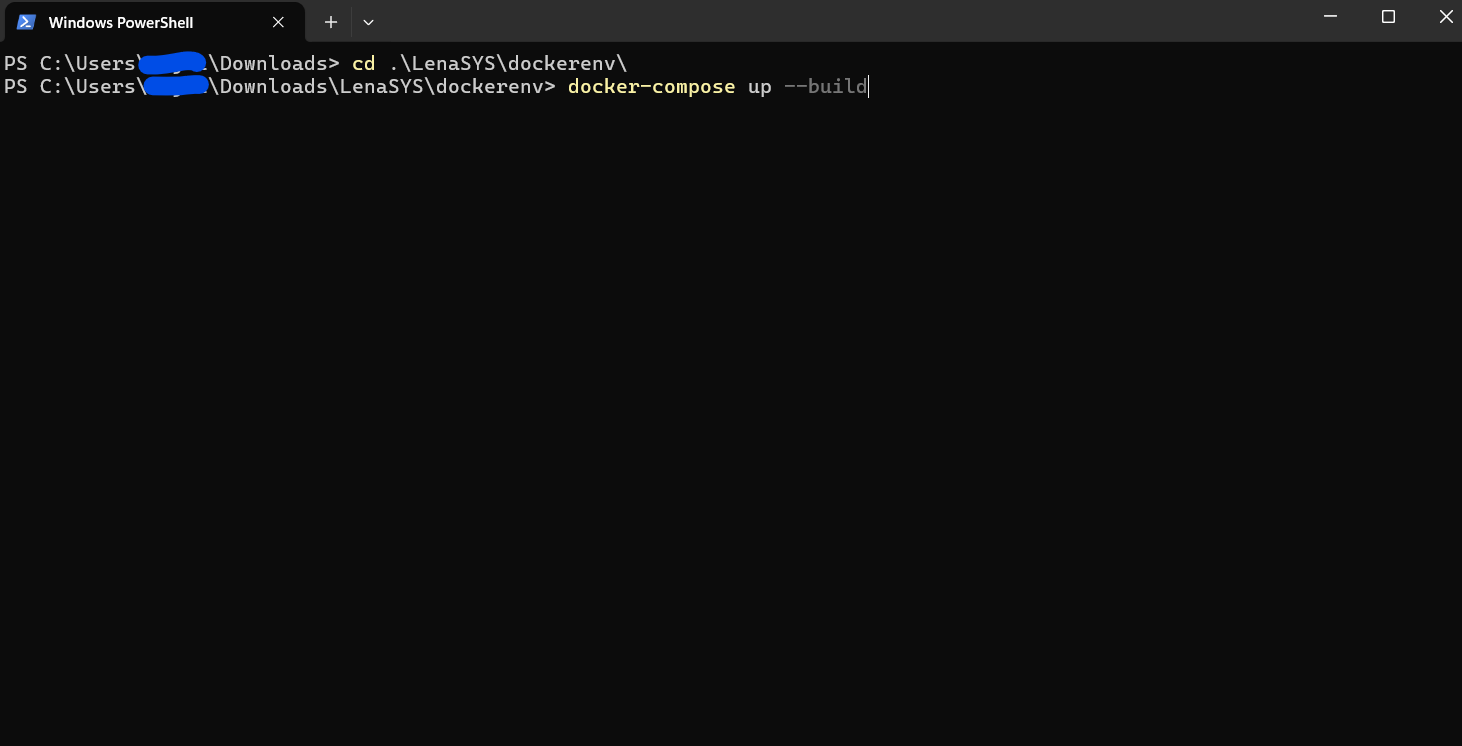
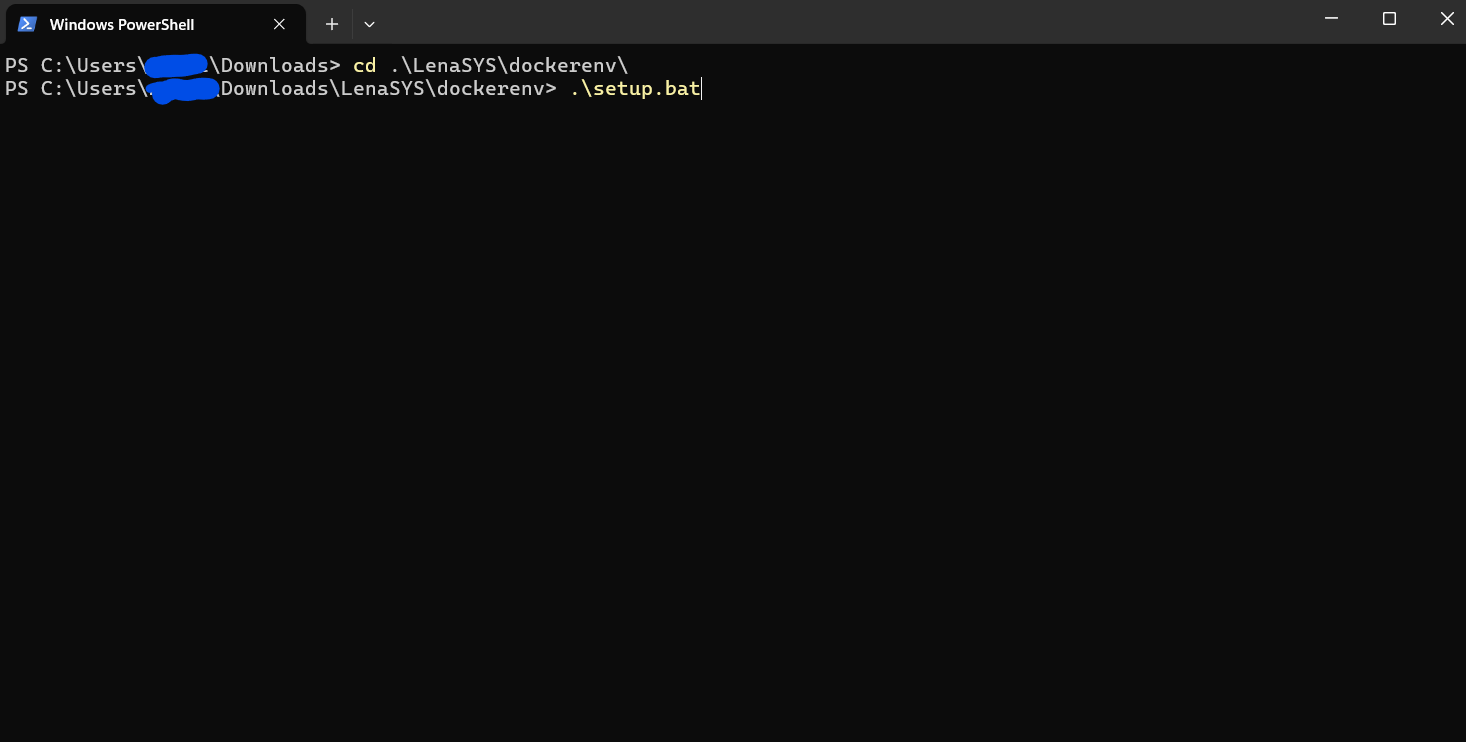
Updated image and text

diff --git a/README.md b/README.md
@@ -50,8 +50,8 @@ When you have installed your Docker desktop, you can run Docker containers, but 
 4. Now you have the LenaSYS repository, so you need to access the new directory in the terminal by typing: `cd LenaSYS/dockerenv/`.
 <img src="Shared/Documentation/docker_images/terminal3.png" width="512">
 
-5. Here you need to build a few images and containers, and to do that run the command for Windows: `docker-compose up --build`
-or macOS: `docker compose up --build`.
+5. Here you need to build a few images and containers, and to do that run the command for Windows: `.\setup.bat`
+or macOS/Linux: `./setup.sh`.
 NOTE: You need to keep open Docker desktop program/app and do not turn off, otherwise this command will show an error and will not work.
 <img src="Shared/Documentation/docker_images/terminal4.png" width="512">
 
@@ -90,7 +90,7 @@ After changing the file permissions recursively over the repository, all the fil
 
 1. If you want remove all containers, then first stop running containers which you can follow this step [stop containers in Docker](#stop-containers-in-docker).
 
-2. After that run the command: `docker-compose down` in the terminal.
+2. After that run the command: `docker compose down` in the terminal.
 <img src="Shared/Documentation/docker_images/terminal7.png" width="512">
 
 3. Now your terminal says removed which means containers are removed.
